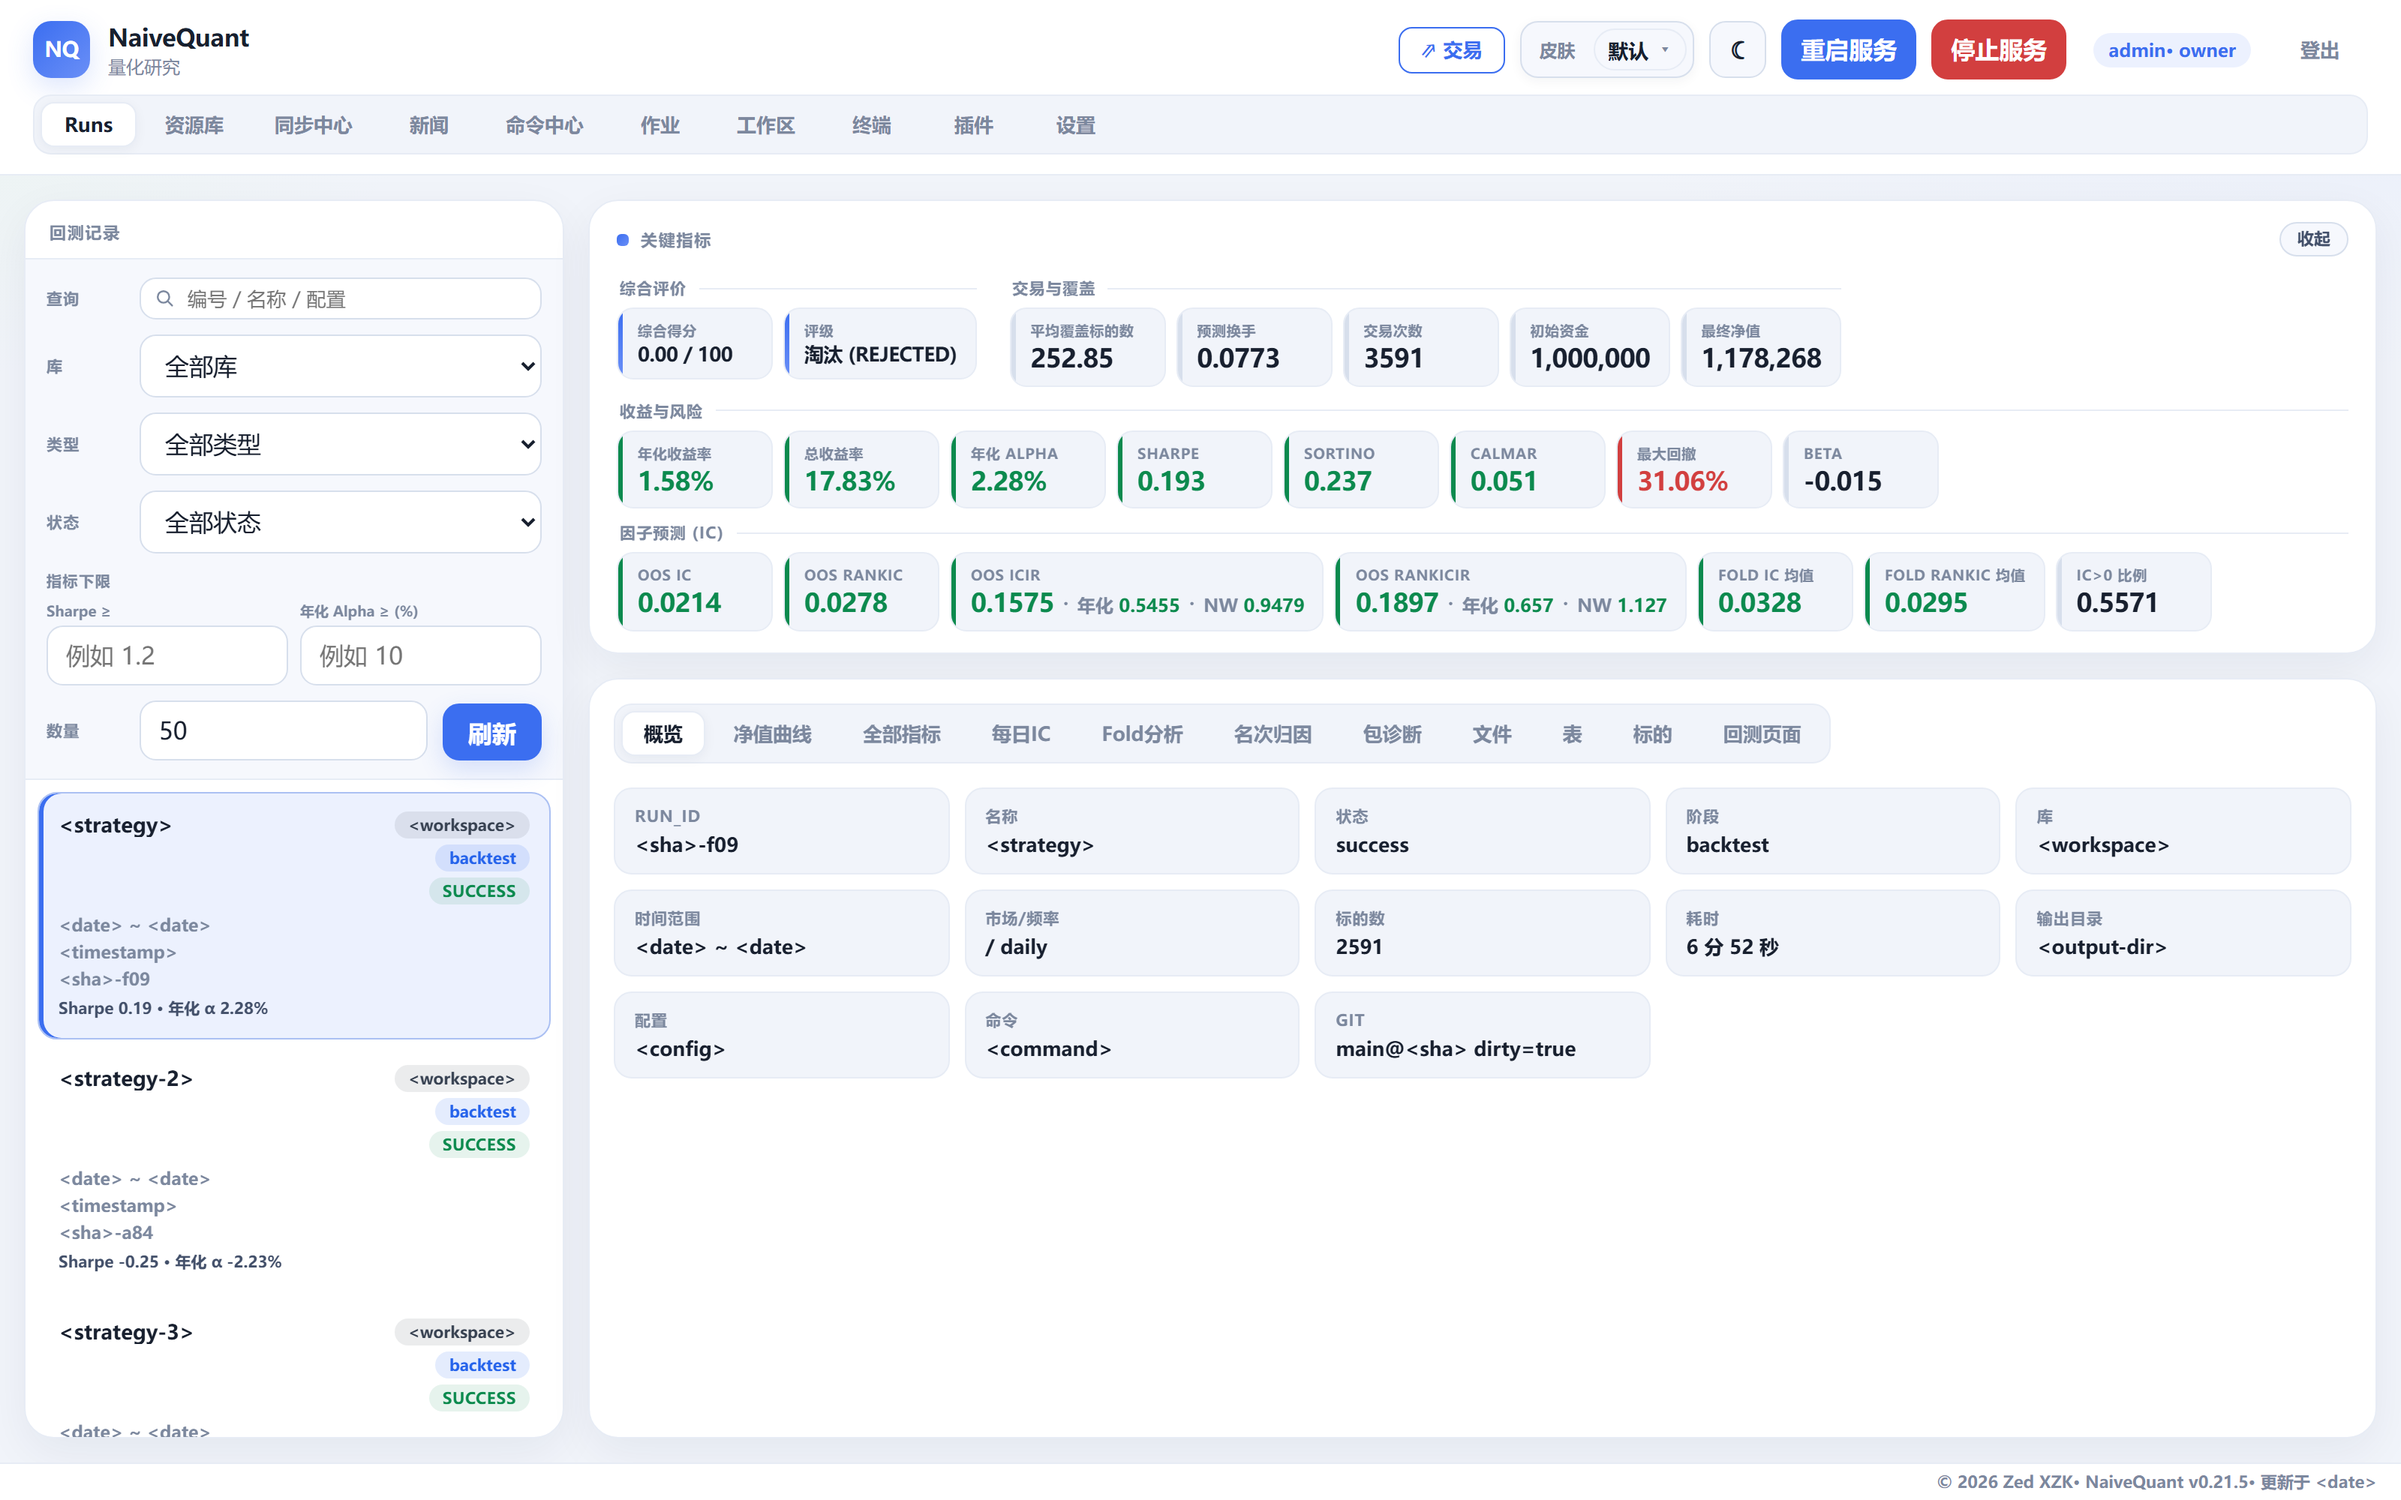
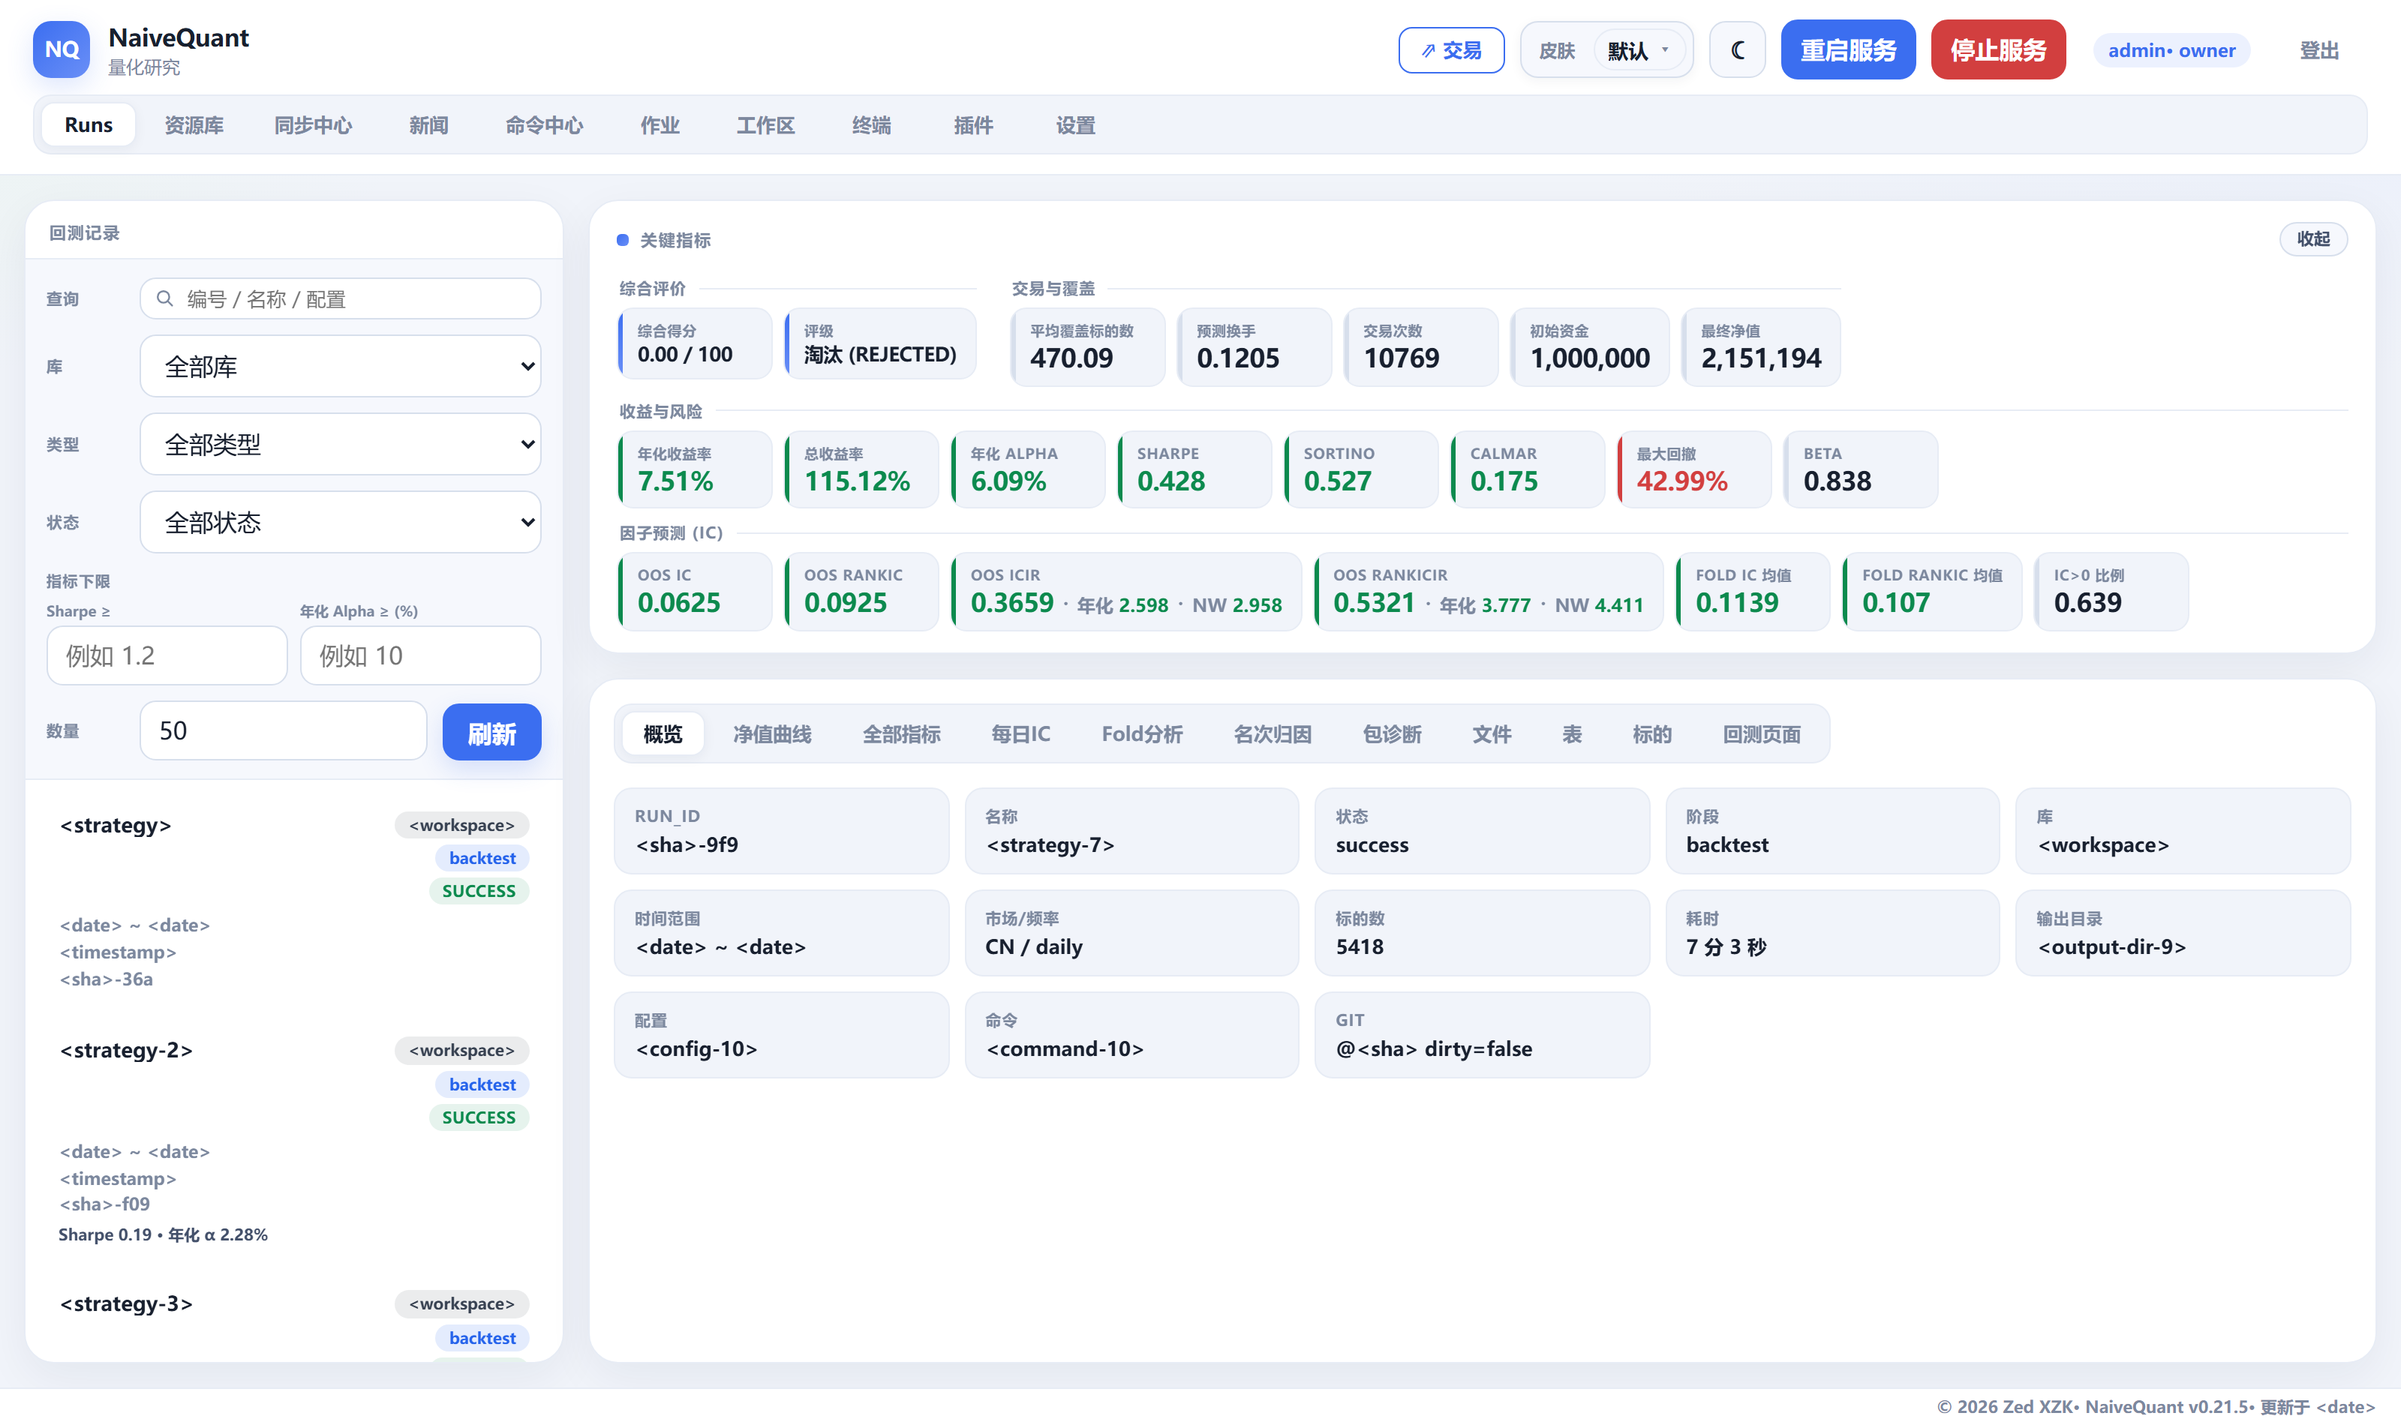
docs: 界面预览改用同一次 A 股回测运行，补齐净值/成本/Fold/IC 四图
统一以 A 股日频 ML 横截面回测（5,418 标的、2015-2025、10,769 笔成交）
串起整个研究链路的展示：

- 新增净值曲线（策略 vs 沪深300 vs 初始本金）
- 新增全部指标：执行成本分项（价差/佣金/市场冲击/平台费/滑点/规费税费）
  与成本口径说明
- 新增 walk-forward Fold 分析：153 个 fold 的 IC/RankIC、分布直方图、
  最好/最差 fold、逐 fold 训练测试窗口
- 新增每日 IC：3,197 个交易日的 IC/RankIC 序列与分布
- 概览深/浅色两图改用同一次运行，前后一致
- 补充评级说明：该运行被风控底线一票否决（回撤 42.99% > 25% 红线），
  综合得分 0.00/100，用以说明评估体系会否掉自己的策略

脱敏：工作区名、策略名、日期时间戳、本地路径、输出目录、git 提交号
全部替换为占位符；六个视图经脚本化残留审计（盘符路径/家目录/ISO 时间戳/
裸日期/sha/邮箱/公网 IP/已知私有名）均为 CLEAN。指标数值与图表未改动。

diff --git a/README.md b/README.md
@@ -45,15 +45,37 @@
 ### 界面预览
 
 > 截图中的工作区名、策略名、日期时间、本地路径、输出目录和 git 提交号已替换为
-> `<workspace>`、`<strategy>`、`<date>` 等占位符。指标数值、页面结构和版本号未作改动。
+> `<workspace>`、`<strategy>`、`<date>` 等占位符。指标数值、图表、页面结构和版本号未作改动。
 
-**研究控制台**：回测记录、因子库与策略库、数据浏览器、交易与成交记录、插件页、命令中心、作业、工作区、终端，支持深浅色主题。下图为回测运行详情——左侧是可按库/类型/状态/Sharpe/Alpha 过滤的运行列表，右侧汇总综合评级、收益与风险、以及因子预测的 OOS IC / RankIC / ICIR 面板。
+下面几张图来自同一次回测运行：**A 股日频 ML 横截面策略，5,418 只标的、2015–2025、10,769 笔成交**。
+
+**① 运行概览**：左侧是可按库/类型/状态/Sharpe/Alpha 过滤的运行列表，右侧汇总综合评级、收益与风险、以及因子预测的 OOS IC / RankIC / ICIR。支持深浅色主题。
 
 | 深色主题 | 浅色主题 |
 |:---:|:---:|
 | ![研究台·深色](assets/research-dark.png) | ![研究台·浅色](assets/research-light.png) |
 
-**插件页**：只列出已加载且当前账户有权限访问的插件；未启用或版本不兼容的插件不会静默隐藏，而是在运维台标记为 error。
+**② 净值曲线**：策略净值、基准（沪深 300）与初始本金三线对照，可切线性/对数纵轴。这次运行总收益 115.12%、年化 7.51%、年化 Alpha 6.09%，明显跑赢基准。
+
+![净值曲线](assets/equity-dark.png)
+
+**③ 全部指标**：完整指标账本。除常规收益风险指标外，**执行成本是分项列出的**——价差成本、佣金、市场冲击、平台费、滑点、规费税费各自独立成行，并注明成本口径（硬费用现金扣除，执行成本通过成交价影响净值，不重复计入），避免回测收益被隐性成本粉饰。
+
+![全部指标](assets/metrics-dark.png)
+
+**④ Walk-forward Fold 分析**：这次运行切了 **153 个 fold**，逐 fold 记录 IC / RankIC，并给出 fold IC 分布直方图、最好与最差 fold、以及分布/尾部/显著性/稳定性四类总体统计。每个 fold 的训练与测试窗口都可展开核对。
+
+![Fold 分析](assets/fold-dark.png)
+
+**⑤ 每日 IC**：3,197 个交易日的 IC / RankIC 时间序列与分布，附 ICIR、RankICIR 和 IC>0 比例。
+
+![每日 IC](assets/ic-dark.png)
+
+> **关于评级**：这次运行的最终评级是 **淘汰 (REJECTED)**，综合得分 0.00/100，原因是「触发底线：最大回撤超过 25.0%」（实际 42.99%）。
+> 评分体系设有风险底线，**一票否决优先于收益表现**——总收益 115% 也不能让一条回撤失控的策略进入生产。
+> 展示这一点是有意的：能否否掉自己的策略，比能否跑出好看的净值曲线更能说明评估体系是否可用。
+
+**⑥ 插件页**：只列出已加载且当前账户有权限访问的插件；未启用或版本不兼容的插件不会静默隐藏，而是在运维台标记为 error。
 
 ![插件页](assets/plugins-dark.png)
 
